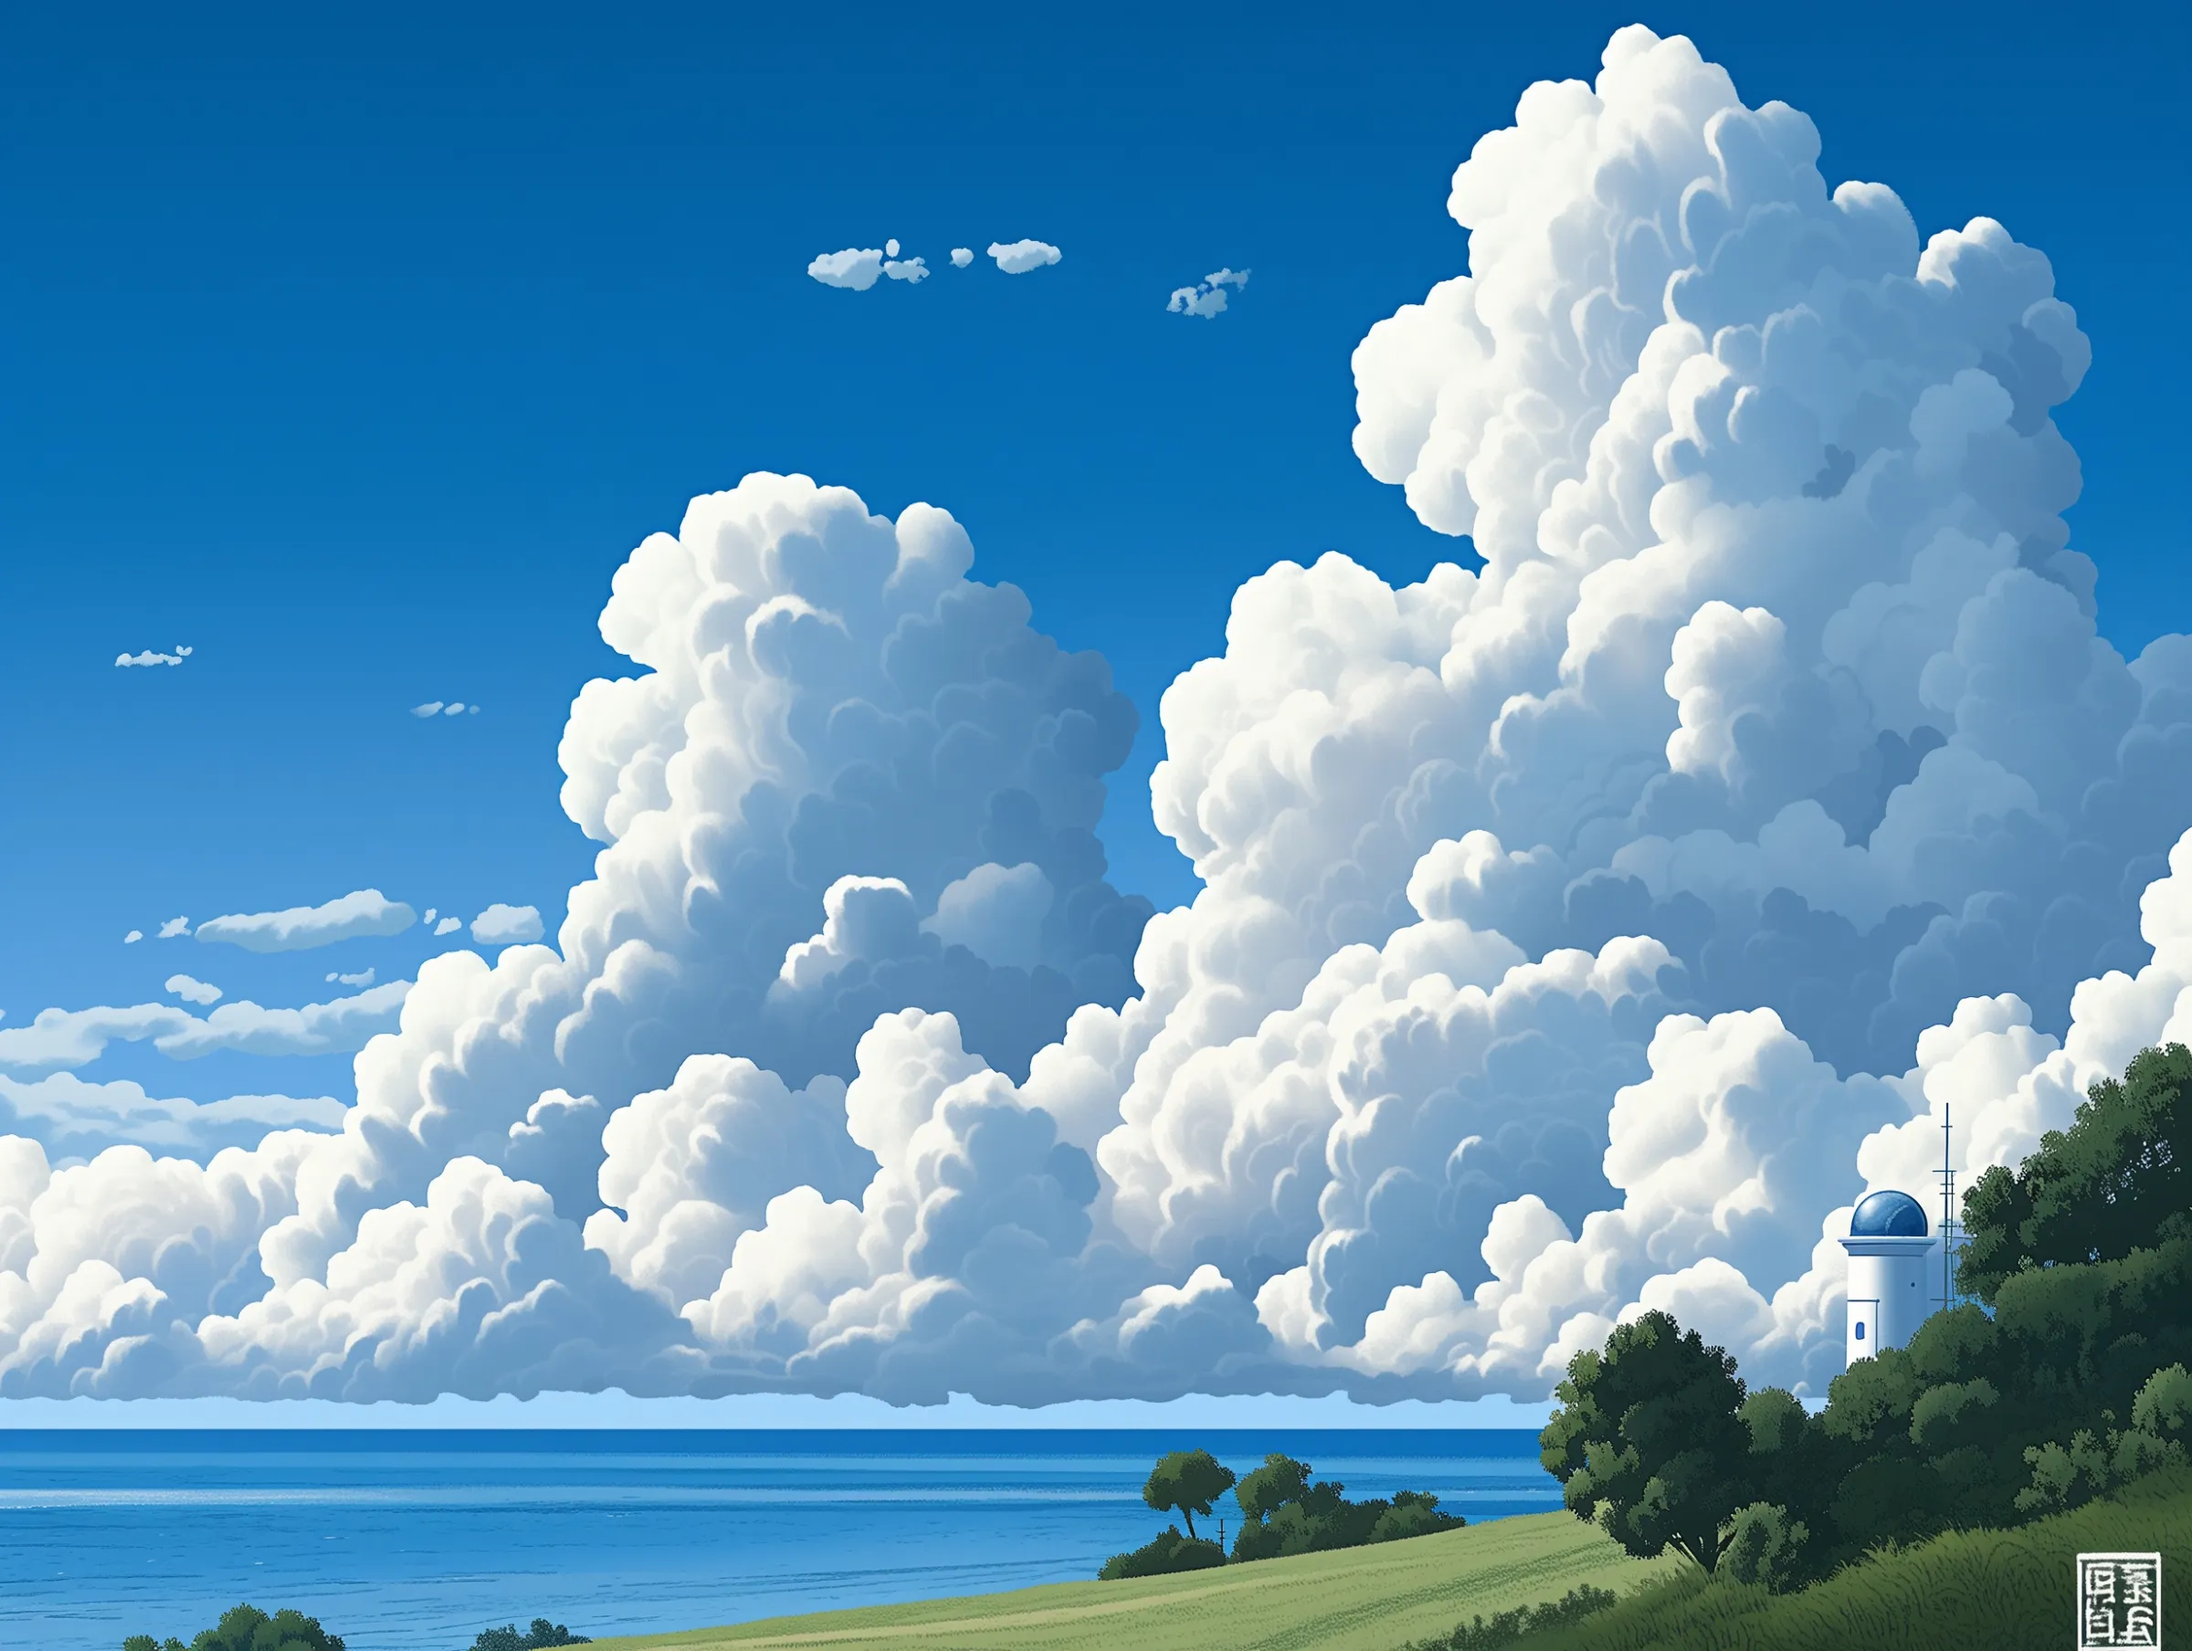
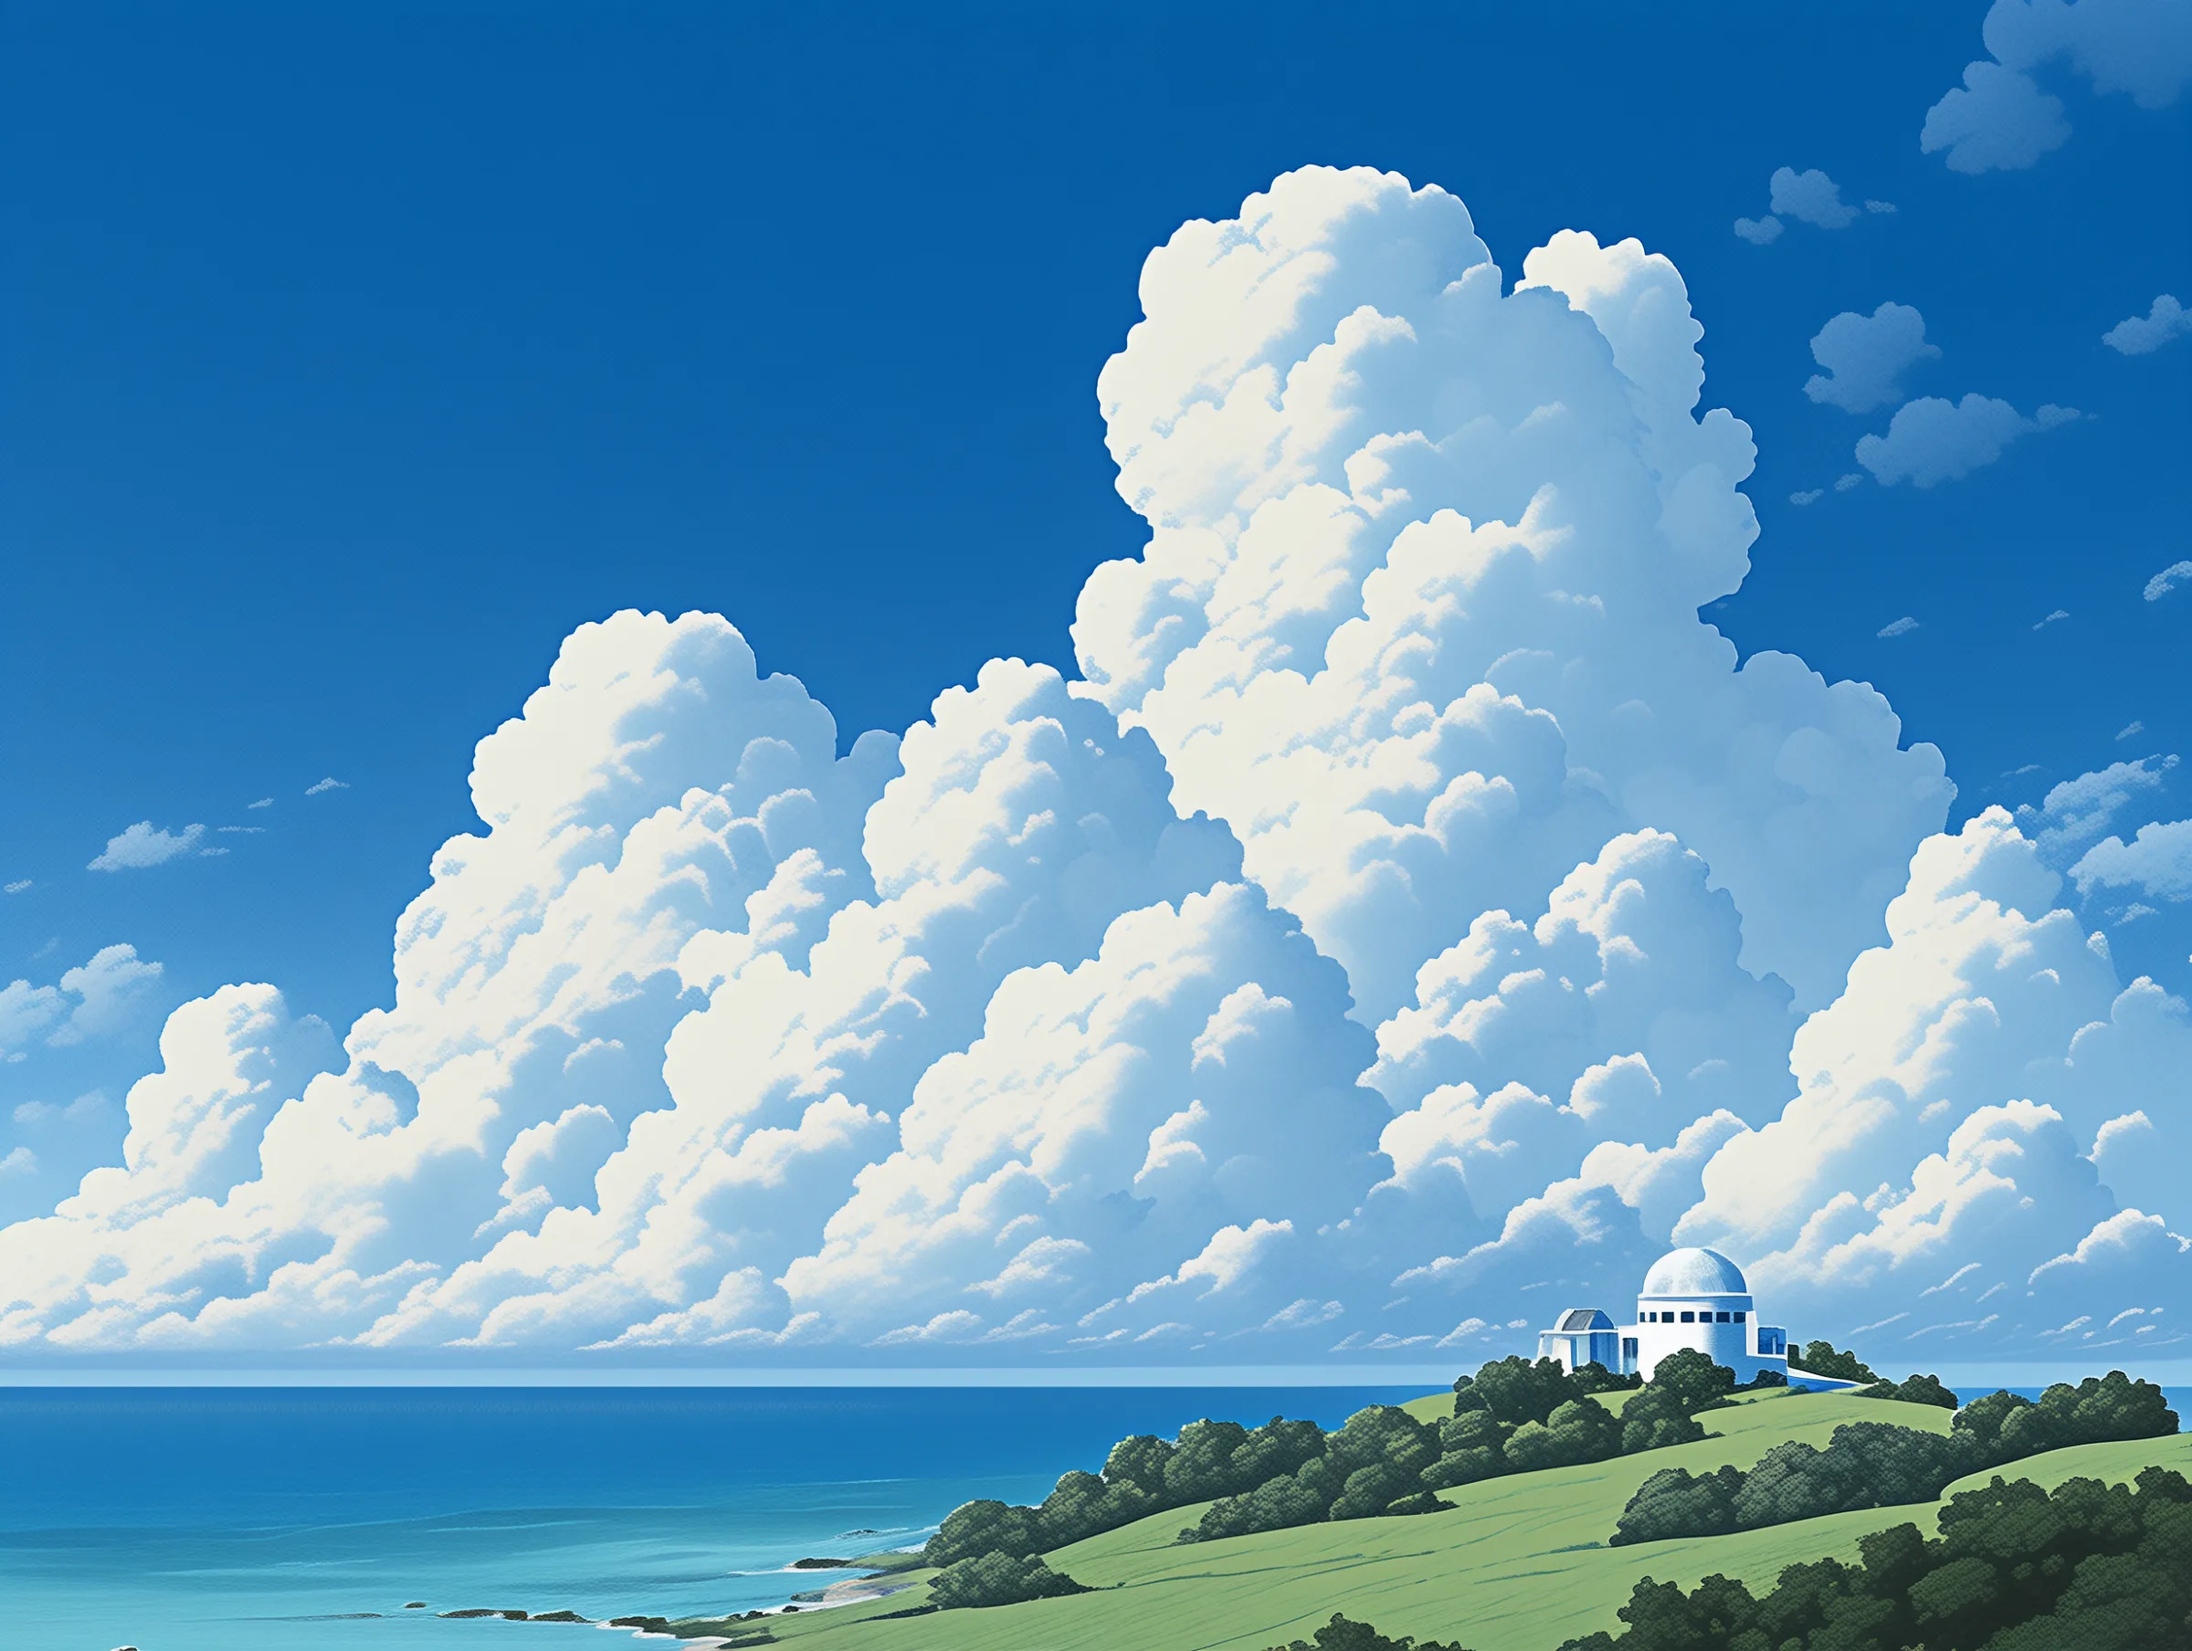
lp/obs: brighter day hero, the homepage's cloud style with an observatory

diff --git a/lp/obs/index.md b/lp/obs/index.md
@@ -414,7 +414,7 @@ capabilities:
   <section class="space-y-12 mt-(--inset) w-full flex flex-col items-center">
     <!-- Dark inset hero: gradient sky, painted horizon anchored below the demo -->
     <div class="hero-paint hero-sky relative panel-w rounded-[2rem] overflow-hidden text-textStrong ring-1 ring-black/5 dark:ring-white/10">
-    <img src="/assets/img/home/art/obs-hero-day.webp" alt="" data-anchor-to="[data-hero-tabs] [role=tablist]" data-anchor-at="0.82" class="dark:hidden absolute inset-x-0 top-0 w-full h-auto max-sm:h-[44%] max-sm:object-cover max-sm:object-[94%_0%] max-sm:opacity-45 [mask-image:linear-gradient(to_bottom,transparent,black_28%,black_80%,transparent)]">
+    <img src="/assets/img/home/art/obs-hero-day.webp?v=2" alt="" data-anchor-to="[data-hero-tabs] [role=tablist]" data-anchor-at="0.86" class="dark:hidden absolute inset-x-0 top-0 w-full h-auto max-sm:h-[44%] max-sm:object-cover max-sm:object-[94%_0%] max-sm:opacity-45 [mask-image:linear-gradient(to_bottom,transparent,black_28%,black_80%,transparent)]">
     <img src="/assets/img/home/art/hero-shore-morning.webp" alt="" class="dark:hidden absolute inset-x-0 bottom-0 w-full h-auto min-h-48 object-cover object-[18%_100%] [mask-image:linear-gradient(to_top,black_55%,rgb(0_0_0/.5)_78%,transparent)]">
     <img src="/assets/img/home/art/obs-hero-night.webp" alt="" data-anchor-to="[data-hero-tabs] [role=tablist]" data-anchor-at="0.79" class="hidden dark:block absolute inset-x-0 top-0 w-full h-auto brightness-[.8] saturate-[.85] [mask-image:linear-gradient(to_bottom,transparent,black_20%,black_80%,transparent)]">
     <img src="/assets/img/home/art/hero-shore.webp" alt="" data-art data-glint class="hidden dark:block absolute inset-x-0 bottom-0 w-full h-auto min-h-48 object-cover object-[18%_100%] brightness-[.65] saturate-[.9] [mask-image:linear-gradient(to_top,black_55%,rgb(0_0_0/.5)_78%,transparent)]">
